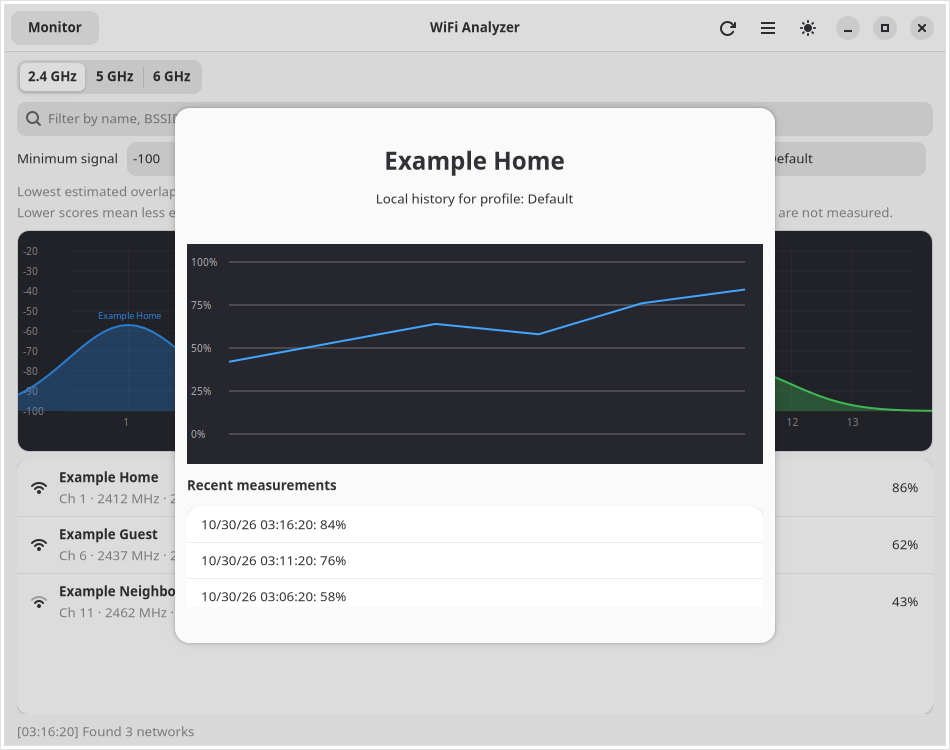
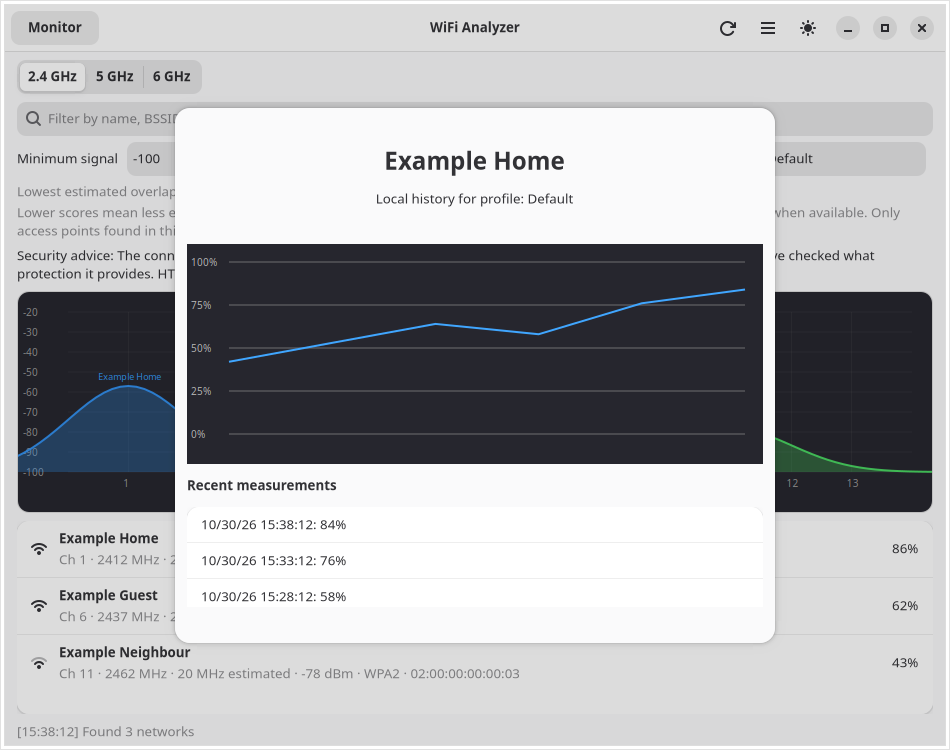
Make connected Wi-Fi security advice visible

diff --git a/scripts/capture_demo_screenshot.py b/scripts/capture_demo_screenshot.py
@@ -16,7 +16,7 @@ DEMO_NETWORKS = [
     {
         "ssid": "Example Home", "bssid": "02:00:00:00:00:01",
         "freq": 2412, "channel": 1, "signal_pct": 86, "dbm": -57,
-        "security": "WPA3", "band": "2.4 GHz", "width_mhz": 20,
+        "security": "", "band": "2.4 GHz", "width_mhz": 20,
         "channel_status": "", "last_seen": 0, "connected": True,
         "width_source": "measured", "wifi_standard": "Wi-Fi 6",
     },
@@ -110,6 +110,7 @@ def run_demo_app():
                 "status": window.statusbar.get_label(),
                 "recommendation": window.recommendation.get_label(),
                 "recommendation_detail": window.recommendation_detail.get_label(),
+                "security_advice": window.security_advice.get_label(),
                 "history_measurements": history_measurements,
             }), encoding="utf-8")
             return GLib.SOURCE_REMOVE
@@ -155,6 +156,12 @@ def main():
                 "at 20 MHz; reported access point widths are used when available. Only "
                 "access points found in this scan count; client traffic and hidden "
                 "networks are not measured."
+            )
+            or state.get("security_advice") != (
+                "Security advice: The connected access point reports no Wi-Fi "
+                "security. Avoid sensitive activity on this network until you "
+                "have checked what protection it provides. HTTPS protects only "
+                "connections to sites that use it."
             )
             or state.get("history_measurements") != expected_history_measurements
         ):

diff --git a/src/wifi_analyzer/app.py b/src/wifi_analyzer/app.py
@@ -1268,8 +1268,11 @@ class WifiAnalyzerWindow(Adw.ApplicationWindow):
         self.recommendation.add_css_class("dim-label")
         self.recommendation_detail = Gtk.Label(xalign=0, wrap=True)
         self.recommendation_detail.add_css_class("dim-label")
+        self.security_advice = Gtk.Label(xalign=0, wrap=True)
+        self.security_advice.set_margin_top(4)
         recommendation_box.append(self.recommendation)
         recommendation_box.append(self.recommendation_detail)
+        recommendation_box.append(self.security_advice)
         main_box.append(recommendation_box)
 
         # Channel overlap visualization
@@ -1508,10 +1511,10 @@ class WifiAnalyzerWindow(Adw.ApplicationWindow):
             recommendations, no_result_reason,
         )
         security_advice = connected_security_advice(self.networks)
-        if security_advice:
-            explanation = f"{explanation}\n\n{security_advice}"
         self.recommendation.set_label(recommendation)
         self.recommendation_detail.set_label(explanation)
+        self.security_advice.set_label(security_advice)
+        self.security_advice.set_visible(bool(security_advice))
 
     def _export_rows(self):
         fields = ("ssid", "bssid", "band", "freq", "channel", "width_mhz", "signal_pct", "dbm", "security", "channel_status", "last_seen")

diff --git a/tests/test_network_helpers.py b/tests/test_network_helpers.py
@@ -271,6 +271,7 @@ def test_main_view_channel_recommendations_use_latest_scan_regulatory_ranges(mon
     window.channel_chart = Mock()
     window.recommendation = Mock()
     window.recommendation_detail = Mock()
+    window.security_advice = Mock()
 
     window._update_ui()
 
@@ -311,12 +312,14 @@ def test_main_view_adds_connected_network_security_advice(monkeypatch):
     window.channel_chart = Mock()
     window.recommendation = Mock()
     window.recommendation_detail = Mock()
+    window.security_advice = Mock()
 
     window._update_ui()
 
-    detail = window.recommendation_detail.set_label.call_args.args[0]
-    assert "Security advice:" in detail
-    assert "disable WEP/WPA1" in detail
+    advice = window.security_advice.set_label.call_args.args[0]
+    assert "Security advice:" in advice
+    assert "disable WEP/WPA1" in advice
+    window.security_advice.set_visible.assert_called_once_with(True)
 
 
 def test_history_is_bounded_and_can_be_cleared(tmp_path, monkeypatch):

diff --git a/README.md b/README.md
@@ -8,7 +8,7 @@ Wi-Fi signal analyzer, channel planner and local connection diagnostics tool.
 
 Built with GTK4/Adwaita. Part of the [Danne L10n Suite](https://github.com/yeager/debian-repo).
 
-![WiFi Analyzer displaying fictional example networks and channel overlap](screenshots/main.png)
+![WiFi Analyzer displaying fictional example networks, channel overlap and security advice](screenshots/main.png)
 
 *Example networks shown; the app displays scan results from the local device.*
 
@@ -21,6 +21,7 @@ Built with GTK4/Adwaita. Part of the [Danne L10n Suite](https://github.com/yeage
 - Scan access points through NetworkManager D-Bus; no privileged shell command is required.
 - Prefer the adapter with an active NetworkManager connection when the computer has multiple Wi-Fi devices. Active-link width and Wi-Fi generation are read from that interface.
 - Filter results by network name, BSSID, channel or security type.
+- Show cautious security advice for open, Enhanced Open, or older security modes on the connected network.
 - Inspect 2.4, 5 and 6 GHz bands with a channel-overlap graph.
 - Navigate the channel graph with Left/Right and Home/End, filter channels with Enter/Space, and hear channel selections read by screen readers.
 - Show NetworkManager's announced AP bandwidth when available, with a clearly
